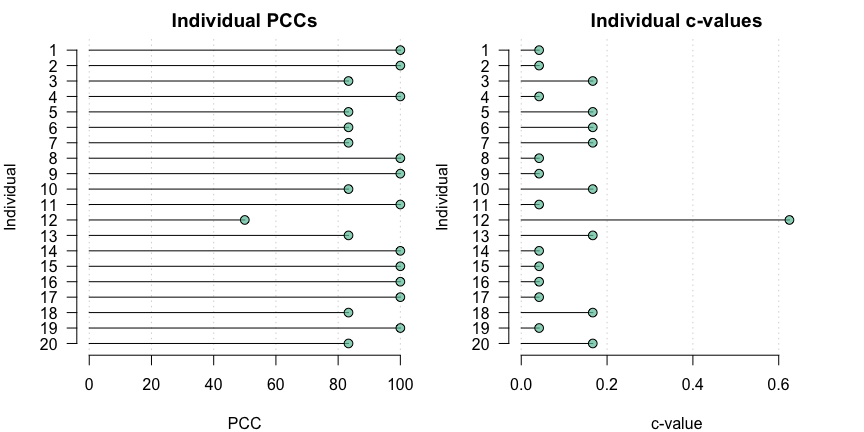
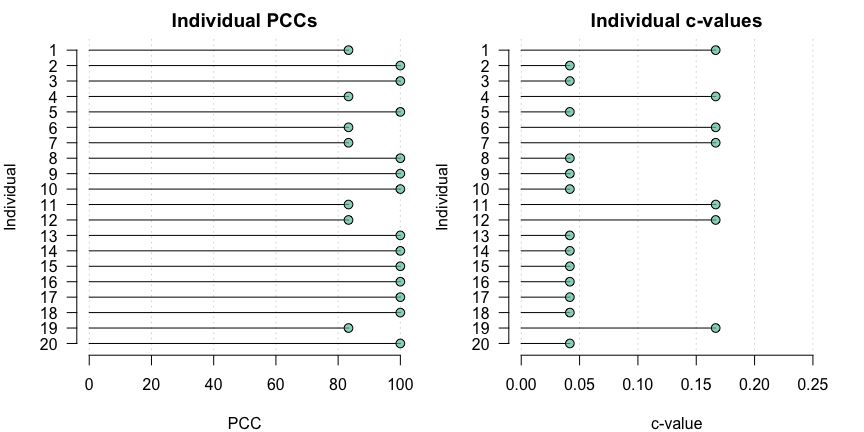
Explicit graphics import

diff --git a/README.md b/README.md
@@ -67,7 +67,7 @@ dat <- c(65.3, 68.8, 67.0, 73.1)
 
 encodes the ordered pairwise relations `1 1 1 -1 1 1`. The percentage of
 orderings which are correctly classified by the hypothesis (PCC) is the
-main quantity of iterest in ordinal pattern analysis. Comparing `h` and
+main quantity of interest in ordinal pattern analysis. Comparing `h` and
 `dat`, the PCC is `5/6 = 0.833` or 83.3%. An hypothesis which generates
 a greater PCC is preferred over an hypothesis which generates a lower
 PCC for given data.
@@ -114,26 +114,26 @@ dat <- data.frame(t1 = rnorm(20, mean = 12, sd = 2),
                   
 round(dat, 2)
 #>       t1    t2    t3    t4
-#> 1  10.29 13.20 22.67 18.39
-#> 2   9.34 15.45 18.24 16.66
-#> 3   9.42 14.39 19.15 13.99
-#> 4   8.09 16.59 20.76 17.77
-#> 5  12.41 16.11 17.54 15.14
-#> 6  12.34 17.06 19.71 16.77
-#> 7   8.88 13.13 15.28 17.35
-#> 8  11.81 13.11 20.57 18.10
-#> 9  13.49 14.18 21.14 17.94
-#> 10 12.84 15.74 23.38 15.34
-#> 11 10.53 12.27 21.71 17.19
-#> 12 13.63 16.73 16.26 16.44
-#> 13 15.02 17.08 17.79 16.67
-#> 14 14.09 15.93 19.41 18.19
-#> 15 12.27 17.07 20.46 18.83
-#> 16 13.20 15.73 22.71 17.63
-#> 17 12.97 13.47 18.77 18.20
-#> 18 14.77 14.26 25.36 16.35
-#> 19  9.32 13.44 17.77 15.30
-#> 20 11.34 16.35 20.71 15.93
+#> 1   9.64 15.84 16.86 21.26
+#> 2  14.77 15.81 21.67 17.75
+#> 3  13.38 17.07 21.45 19.26
+#> 4  12.92 11.64 19.02 17.92
+#> 5  12.91 16.66 22.19 19.64
+#> 6  11.49 14.64 18.51 12.64
+#> 7  13.80 14.05 21.39 13.93
+#> 8   8.31 10.63 21.97 21.72
+#> 9   9.38 16.60 20.70 18.98
+#> 10  9.14 14.86 21.19 17.94
+#> 11 13.40 17.08 20.94 15.87
+#> 12 13.79 13.20 22.21 18.79
+#> 13 10.11 11.30 19.53 17.81
+#> 14 12.88 14.09 19.03 15.75
+#> 15 10.35 13.84 19.63 17.94
+#> 16 10.91 16.18 25.01 19.22
+#> 17 10.86 15.09 19.67 17.92
+#> 18 11.69 16.57 18.15 17.20
+#> 19 13.82 16.96 19.64 19.67
+#> 20 11.47 15.09 20.72 18.37
 ```
 
 An ordinal pattern analysis model to consider how the hypothesis `h`
@@ -151,30 +151,30 @@ summary(opamod)
 #> 
 #> Between subjects results:
 #>          PCC cval
-#> pooled 90.83 0.12
+#> pooled 94.17 0.09
 #> 
 #> Within subjects results:
 #>       PCC cval
-#> 1  100.00 0.04
+#> 1   83.33 0.17
 #> 2  100.00 0.04
-#> 3   83.33 0.17
-#> 4  100.00 0.04
-#> 5   83.33 0.17
+#> 3  100.00 0.04
+#> 4   83.33 0.17
+#> 5  100.00 0.04
 #> 6   83.33 0.17
 #> 7   83.33 0.17
 #> 8  100.00 0.04
 #> 9  100.00 0.04
-#> 10  83.33 0.17
-#> 11 100.00 0.04
-#> 12  50.00 0.62
-#> 13  83.33 0.17
+#> 10 100.00 0.04
+#> 11  83.33 0.17
+#> 12  83.33 0.17
+#> 13 100.00 0.04
 #> 14 100.00 0.04
 #> 15 100.00 0.04
 #> 16 100.00 0.04
 #> 17 100.00 0.04
-#> 18  83.33 0.17
-#> 19 100.00 0.04
-#> 20  83.33 0.17
+#> 18 100.00 0.04
+#> 19  83.33 0.17
+#> 20 100.00 0.04
 #> 
 #> PCCs were calculated for pairwise ordinal relationships using a difference threshold of 0.
 #> Chance-values were calculated using the exact method.
@@ -198,17 +198,17 @@ produced by a call to `opa()`:
 condition_comparisons <- compare_conditions(opamod)
 
 condition_comparisons$pccs
-#>     1  2  3 4
-#> 1   -  -  - -
-#> 2  95  -  - -
-#> 3 100 95  - -
-#> 4 100 65 90 -
+#>     1   2  3 4
+#> 1   -   -  - -
+#> 2  90   -  - -
+#> 3 100 100  - -
+#> 4 100  85 90 -
 condition_comparisons$cvals
-#>       1     2    3 4
-#> 1     -     -    - -
-#> 2 0.525     -    - -
-#> 3   0.5 0.525    - -
-#> 4   0.5 0.675 0.55 -
+#>      1     2    3 4
+#> 1    -     -    - -
+#> 2 0.55     -    - -
+#> 3  0.5   0.5    - -
+#> 4  0.5 0.575 0.55 -
 ```
 
 ### Multiple groups
@@ -232,33 +232,33 @@ summary(opamod2)
 #> 
 #> Between subjects results:
 #>     PCC cval
-#> A 93.33 0.09
-#> B 90.00 0.12
-#> C 93.33 0.09
-#> D 86.67 0.18
+#> A 96.67 0.07
+#> B 96.67 0.07
+#> C 90.00 0.12
+#> D 93.33 0.09
 #> 
 #> Within subjects results:
 #>   Individual    PCC cval
-#> A          1 100.00 0.04
-#> A          5  83.33 0.17
+#> A          1  83.33 0.17
+#> A          5 100.00 0.04
 #> A          9 100.00 0.04
-#> A         13  83.33 0.17
+#> A         13 100.00 0.04
 #> A         17 100.00 0.04
 #> B          2 100.00 0.04
 #> B          6  83.33 0.17
-#> B         10  83.33 0.17
+#> B         10 100.00 0.04
 #> B         14 100.00 0.04
-#> B         18  83.33 0.17
-#> C          3  83.33 0.17
+#> B         18 100.00 0.04
+#> C          3 100.00 0.04
 #> C          7  83.33 0.17
-#> C         11 100.00 0.04
+#> C         11  83.33 0.17
 #> C         15 100.00 0.04
-#> C         19 100.00 0.04
-#> D          4 100.00 0.04
+#> C         19  83.33 0.17
+#> D          4  83.33 0.17
 #> D          8 100.00 0.04
-#> D         12  50.00 0.62
+#> D         12  83.33 0.17
 #> D         16 100.00 0.04
-#> D         20  83.33 0.17
+#> D         20 100.00 0.04
 #> 
 #> PCCs were calculated for pairwise ordinal relationships using a difference threshold of 0.
 #> Chance-values were calculated using the exact method.
